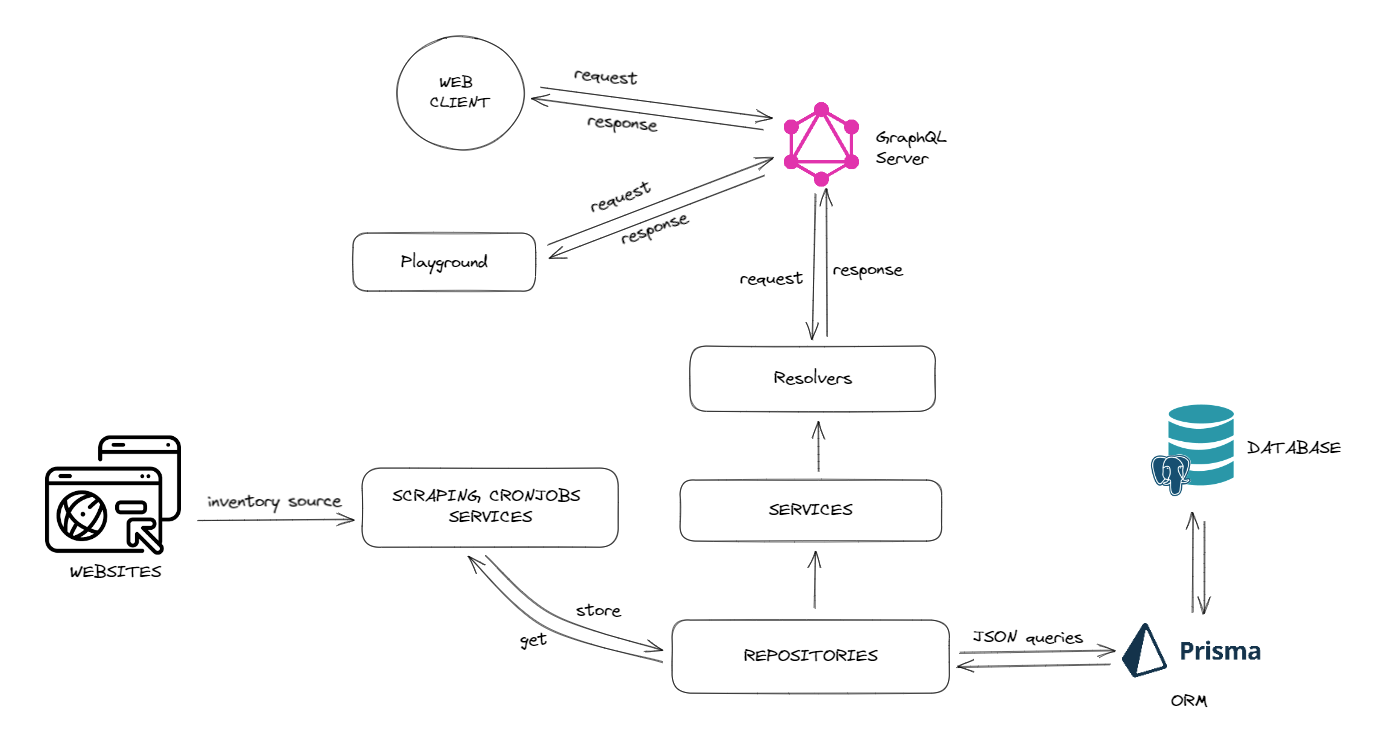
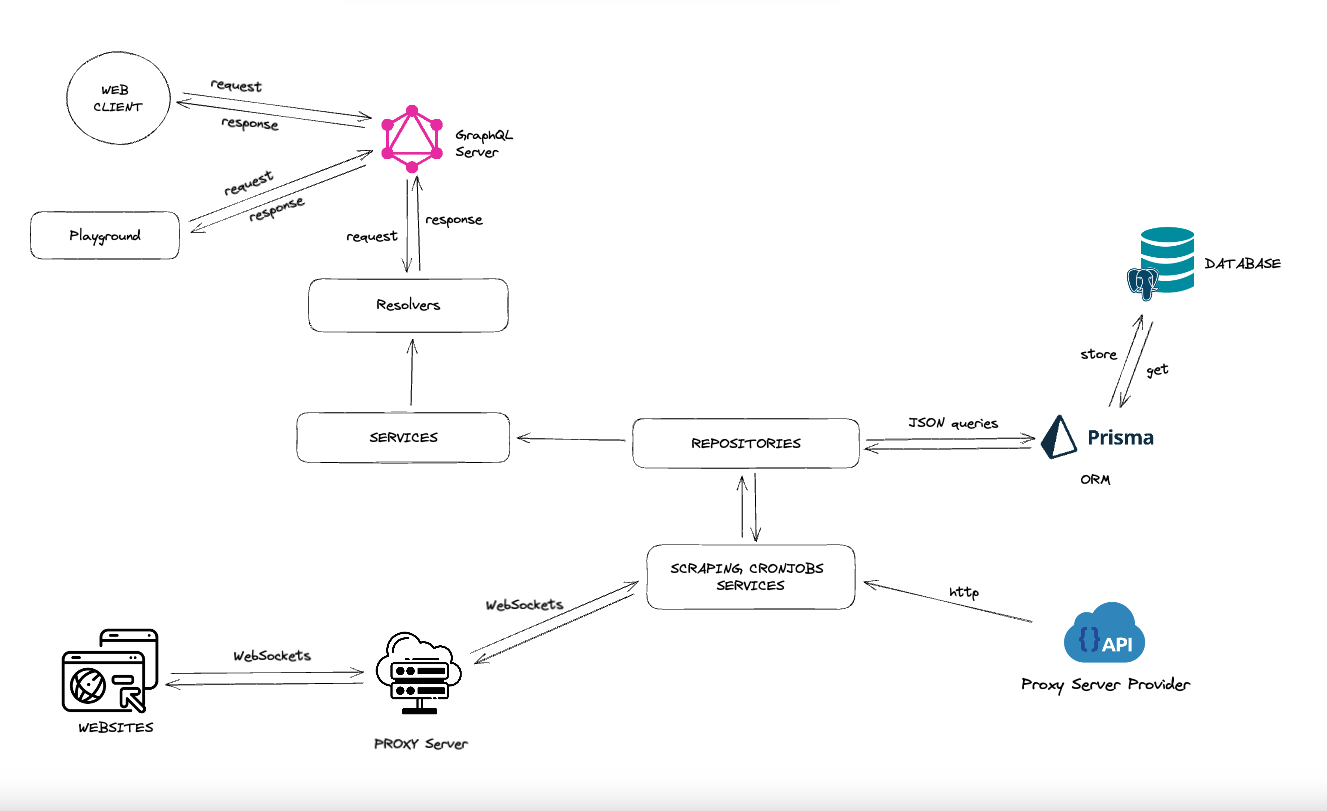
chore: add new architecture diagram

diff --git a/src/jobs/services/mercadolibre-sync.service.ts b/src/jobs/services/mercadolibre-sync.service.ts
@@ -1,6 +1,8 @@
 import { Injectable, Logger } from '@nestjs/common';
-import { Cheerio, Element as CheerioElement } from 'cheerio';
 import * as cheerio from 'cheerio';
+import * as puppeteer from 'puppeteer';
+import { Cheerio, Element as CheerioElement } from 'cheerio';
+
 import { Browser, Page } from 'puppeteer';
 import { EnvConfigService } from '../../config/env-config.service';
 import {
@@ -16,12 +18,9 @@ import {
   PriceCurrency,
   VehicleCondition,
 } from '../../application/vehicles/dtos/vehicle.enums';
-import puppeteer from 'puppeteer-extra';
-import StealthPlugin from 'puppeteer-extra-plugin-stealth';
+
 import { SyncMercadolibreVehicle } from '../../application/vehicles/dtos/mercadolibre-sync.dto';
 import { Vehicle } from '@prisma/client';
-
-puppeteer.use(StealthPlugin());
 
 const PRICE_LIMIT_PEN = 4500;
 const PRICE_LIMIT_USD = 1500;
